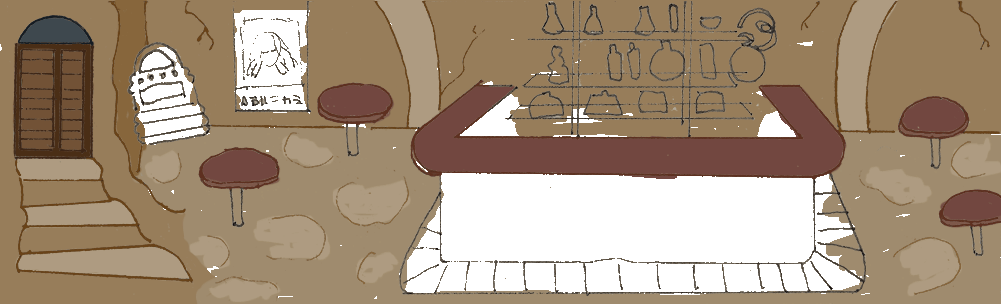
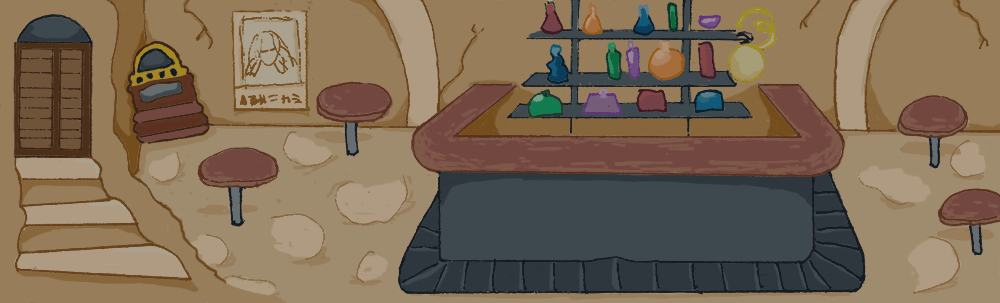
Improved images, better dialogue display

diff --git a/main.js b/main.js
@@ -101,7 +101,6 @@ window.onload = function() {
 		
 		//DIALOGUE COMPONENT TO DO:
 		//* choices need to disappear once chosen
-		//* DialogueEnd needs to work
 		
 		Crafty.c("Dialogue", {
 			Dialogue: function(script, start) {
@@ -151,6 +150,7 @@ window.onload = function() {
 				//update choices with new html
 				$("#choices").html(html);
 				$("#buttons").css('display', 'none');
+				$("#inventory").css('display', 'none');
 				
 				//user clicked on a choice
 				$("#choices .choice").click(function() {
@@ -166,12 +166,10 @@ window.onload = function() {
 			}
 		});
 		
-		
-		//also animate when it appears?
 		Crafty.c("DialogueBar", {
 			init: function() {
 				this.addComponent("2D, DOM, Text, Persist");
-				this.attr({y: 100, x: 200, w: 400, h: 100, visible: false})
+				this.attr({y: 274, x: 0, w: 768, h: 14, visible: false});
 			},
 			replaceText: function(txt) {
 				this.text(txt);
@@ -183,6 +181,23 @@ window.onload = function() {
 			}
 		});
 		
+		Crafty.c("HelpText", {
+			init: function() {
+				this.addComponent("2D, DOM, Text, Persist");
+				this.attr({y: 274, x: 700, w: 68, h: 14, visible: false});
+				this.text("[Press Enter to Continue]");
+			},
+			replaceText: function(txt) {
+				this.text(txt);
+				return this;
+			},
+			addText: function(txt) {
+				this.text(this._text + txt);
+				return this;
+			}
+		});
+		
+		HelpText = Crafty.e("HelpText");
 		DialogueBar = Crafty.e("DialogueBar");
 		
 		//Walking event

diff --git a/cantina.js b/cantina.js
@@ -11,10 +11,11 @@ Crafty.scene("Cantina", function() {
 	
 	Crafty.e("2D, Canvas, Image").image("images/cantina.png");
 	
-	//Inventory.visible = true;	
+	//Inventory.visible = true;
+	HelpText.visible = true;
 	DialogueBar.visible = true;
 	
-	coinAge = Crafty.e("Item, coins")
+	/*coinAge = Crafty.e("Item, coins")
 		.attr({visible:true})
 		//.showItem(145, 458)
 		.bind('MouseOver', function(e) {
@@ -25,12 +26,13 @@ Crafty.scene("Cantina", function() {
 		})
 		.bind('Click', function(e) {
 			Item.pickupItem();
-		});
+		});*/
 	
 	var sceneScript = DIALOGUE.Cantina;
 	
 	Barman = Crafty.e("2D, Canvas, bopen, SpriteAnimation, Mouse, Dialogue")
 			.Dialogue(sceneScript.Barman)
+			//.css({z-index: '100'})
 			.animate("blink", 0, 0, 1)
 			.bind("EnterFrame", function(e) {
 				if(e.frame % 80 > 0 && e.frame % 80 < 10) {
@@ -49,6 +51,7 @@ Crafty.scene("Cantina", function() {
 			//first line of dialogue
 			.bind('Click', function(e) {
 				if (SELECTED == TALK_TO) {
+					DialogueBar.css({background: '#fff', padding: '8px'})
 					this.nextLine();
 				}
 			})
@@ -69,6 +72,10 @@ Crafty.scene("Cantina", function() {
 			.bind("DialogueEnd", function() {
 				//DIALOGUE IS OVER!
 				console.log("THANKS FOR THE CHAT");
+				DialogueBar.replaceText("");
+				$("#choices").hide();
+				$("#buttons").css('display', 'block');
+				$("#inventory").css('display', 'block');
 			});
 	
 	Player.attr({
